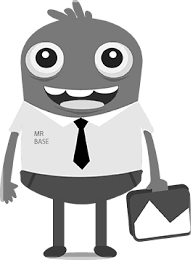
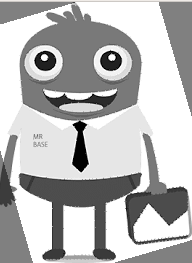
basic test - SIFT done

diff --git a/Homography.py b/Homography.py
@@ -79,7 +79,7 @@ def homography(targetImage, sourceImage, minMatchPoint):
         img3 = cv.drawMatches(targetImage,kp1,sourceImage,kp2,good,None,**draw_params)
         plt.imshow(img3, 'gray'),plt.show()
 
-        warp = cv.warpPerspective(sourceImage, M, (sourceImage.shape[1], sourceImage.shape[0]))
+        warp = cv.warpPerspective(sourceImage, M, (sourceImage.shape[1], sourceImage.shape[0]), flags=cv.WARP_INVERSE_MAP)
 
         alpha = 0.5
         beta = (1.0 - alpha)
